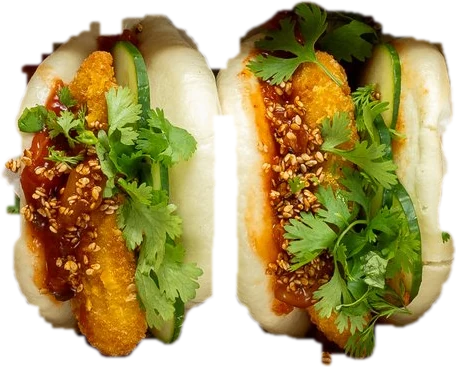
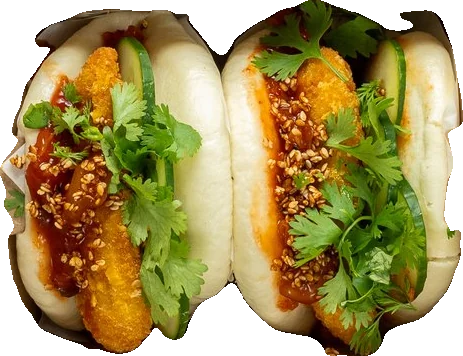
Bao képek: csak a slim salmon új, a többi visszaállítva az eredeti kivágásra
Claude-Session: https://claude.ai/code/session_01CF3hzdauozeAqS9rh6DmZr

diff --git a/index.html b/index.html
@@ -21,7 +21,7 @@
   <link rel="icon" href="favicon.ico" sizes="any">
   <link rel="apple-touch-icon" href="apple-touch-icon.png">
   <link rel="preload" href="assets/fonts/bagel-fat-one-latin.woff2" as="font" type="font/woff2" crossorigin>
-  <link rel="preload" href="img/food/bao-pulled-duck.webp?v=2" as="image">
+  <link rel="preload" href="img/food/bao-pulled-duck.webp?v=3" as="image">
   <link rel="stylesheet" href="assets/style.css?v=20261030-6">
   <script type="application/ld+json">
   {
@@ -83,7 +83,7 @@
         <span class="line" aria-hidden="true">Buns</span>
         <span class="sr-only">SUKI – bao buns és sweet sushi Győrben</span>
       </h1>
-      <img class="hero__food" src="img/food/bao-pulled-duck.webp?v=2" alt="Két pulled duck bao bun tépett kacsával, chili mayóval és pirított hagymával" width="449" height="350">
+      <img class="hero__food" src="img/food/bao-pulled-duck.webp?v=3" alt="Két pulled duck bao bun tépett kacsával, chili mayóval és pirított hagymával" width="473" height="356">
       <img class="hero__side hero__side--left" src="img/food/limo-mango.webp" alt="" width="249" height="787">
       <img class="hero__side hero__side--right" src="img/food/bowl-lazac.webp" alt="" width="723" height="726">
 
@@ -124,25 +124,25 @@
 
     <div class="items">
       <article class="item">
-        <div class="item__img"><img src="img/food/bao-crispy-tofu.webp?v=2" alt="Crispy tofu bao bun" width="437" height="331" loading="lazy"></div>
+        <div class="item__img"><img src="img/food/bao-crispy-tofu.webp?v=3" alt="Crispy tofu bao bun" width="453" height="348" loading="lazy"></div>
         <h3>Crispy tofu</h3>
         <p>tempurált tofu, kimchi, uborka, kimchi szezám, házi vegán chili mayo, koriander</p>
         <span class="price">2590<small>Ft</small></span>
       </article>
       <article class="item">
-        <div class="item__img"><img src="img/food/bao-chicken-kimchi.webp?v=2" alt="Chicken-kimchi bao bun" width="456" height="367" loading="lazy"></div>
+        <div class="item__img"><img src="img/food/bao-chicken-kimchi.webp?v=3" alt="Chicken-kimchi bao bun" width="463" height="356" loading="lazy"></div>
         <h3>Chicken-kimchi</h3>
         <p>ropogós csirke, kimchi ketchup, uborka, kimchi szezám, koriander</p>
         <span class="price">2790<small>Ft</small></span>
       </article>
       <article class="item">
-        <div class="item__img"><img src="img/food/bao-wasabi-shrimp.webp?v=2" alt="Wasabi-shrimp bao bun" width="446" height="366" loading="lazy"></div>
+        <div class="item__img"><img src="img/food/bao-wasabi-shrimp.webp?v=3" alt="Wasabi-shrimp bao bun" width="451" height="366" loading="lazy"></div>
         <h3>Wasabi-shrimp</h3>
         <p>tempurált rák, uborka, savanyított káposzta, wasabi mayo, szezám, snidling</p>
         <span class="price">2790<small>Ft</small></span>
       </article>
       <article class="item">
-        <div class="item__img"><img src="img/food/bao-pulled-duck.webp?v=2" alt="Pulled duck bao bun" width="449" height="350" loading="lazy"></div>
+        <div class="item__img"><img src="img/food/bao-pulled-duck.webp?v=3" alt="Pulled duck bao bun" width="473" height="356" loading="lazy"></div>
         <h3>Pulled duck</h3>
         <p>tépett kacsa, uborka, savanyított lilahagyma, chili mayo, pirított hagyma, snidling</p>
         <span class="price">3490<small>Ft</small></span>
